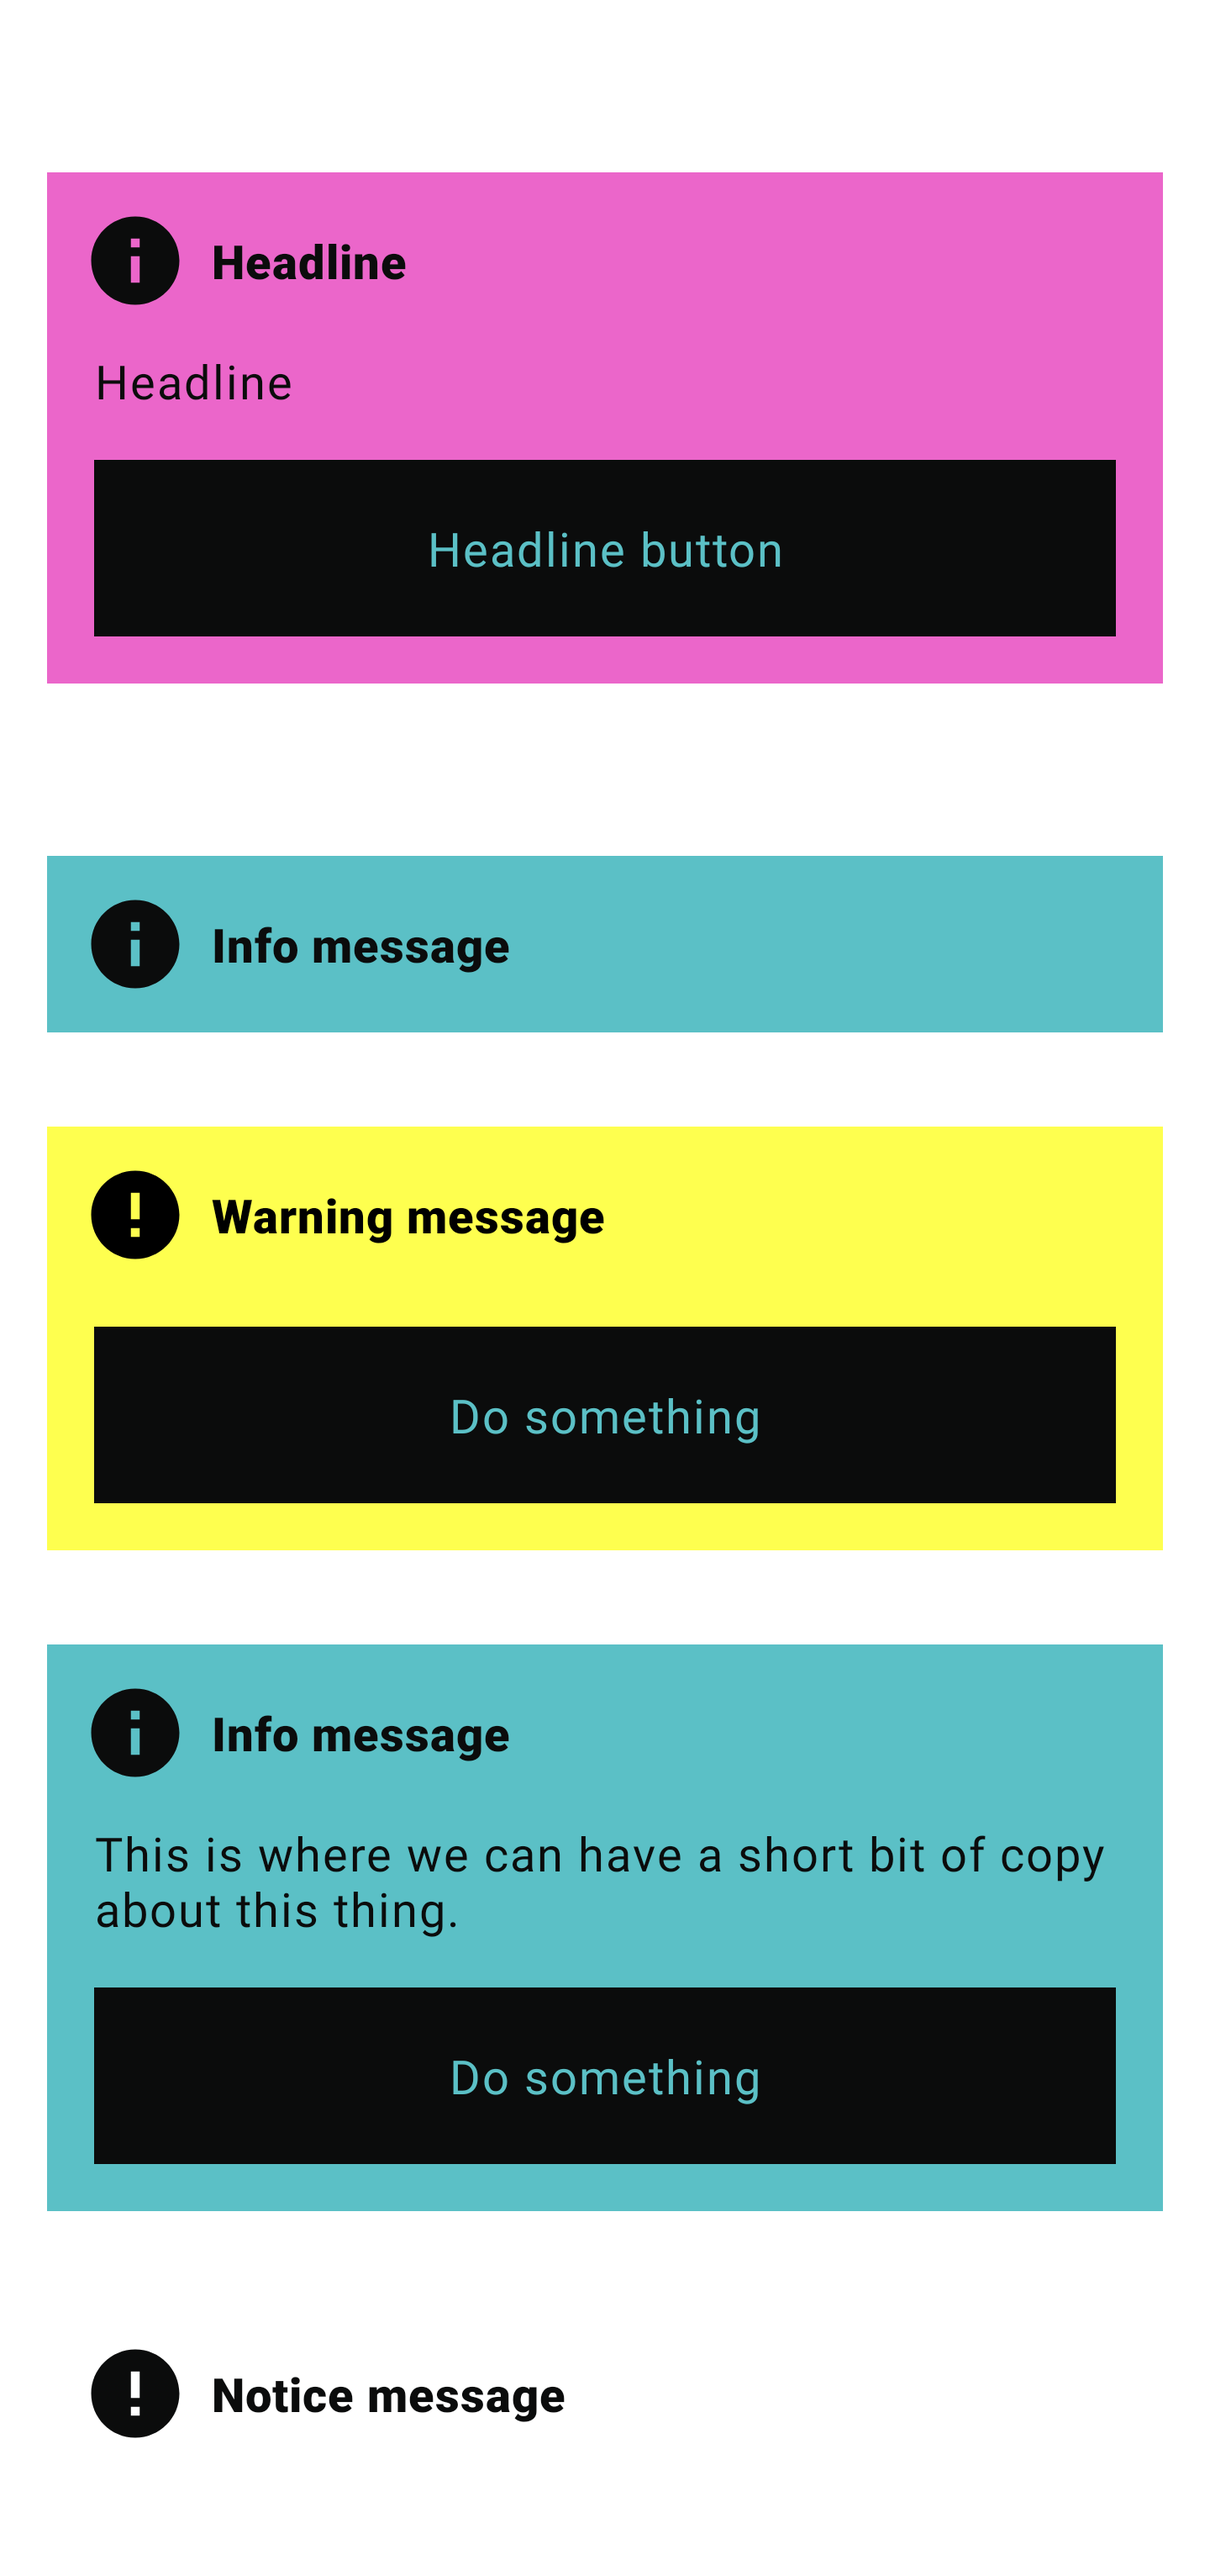
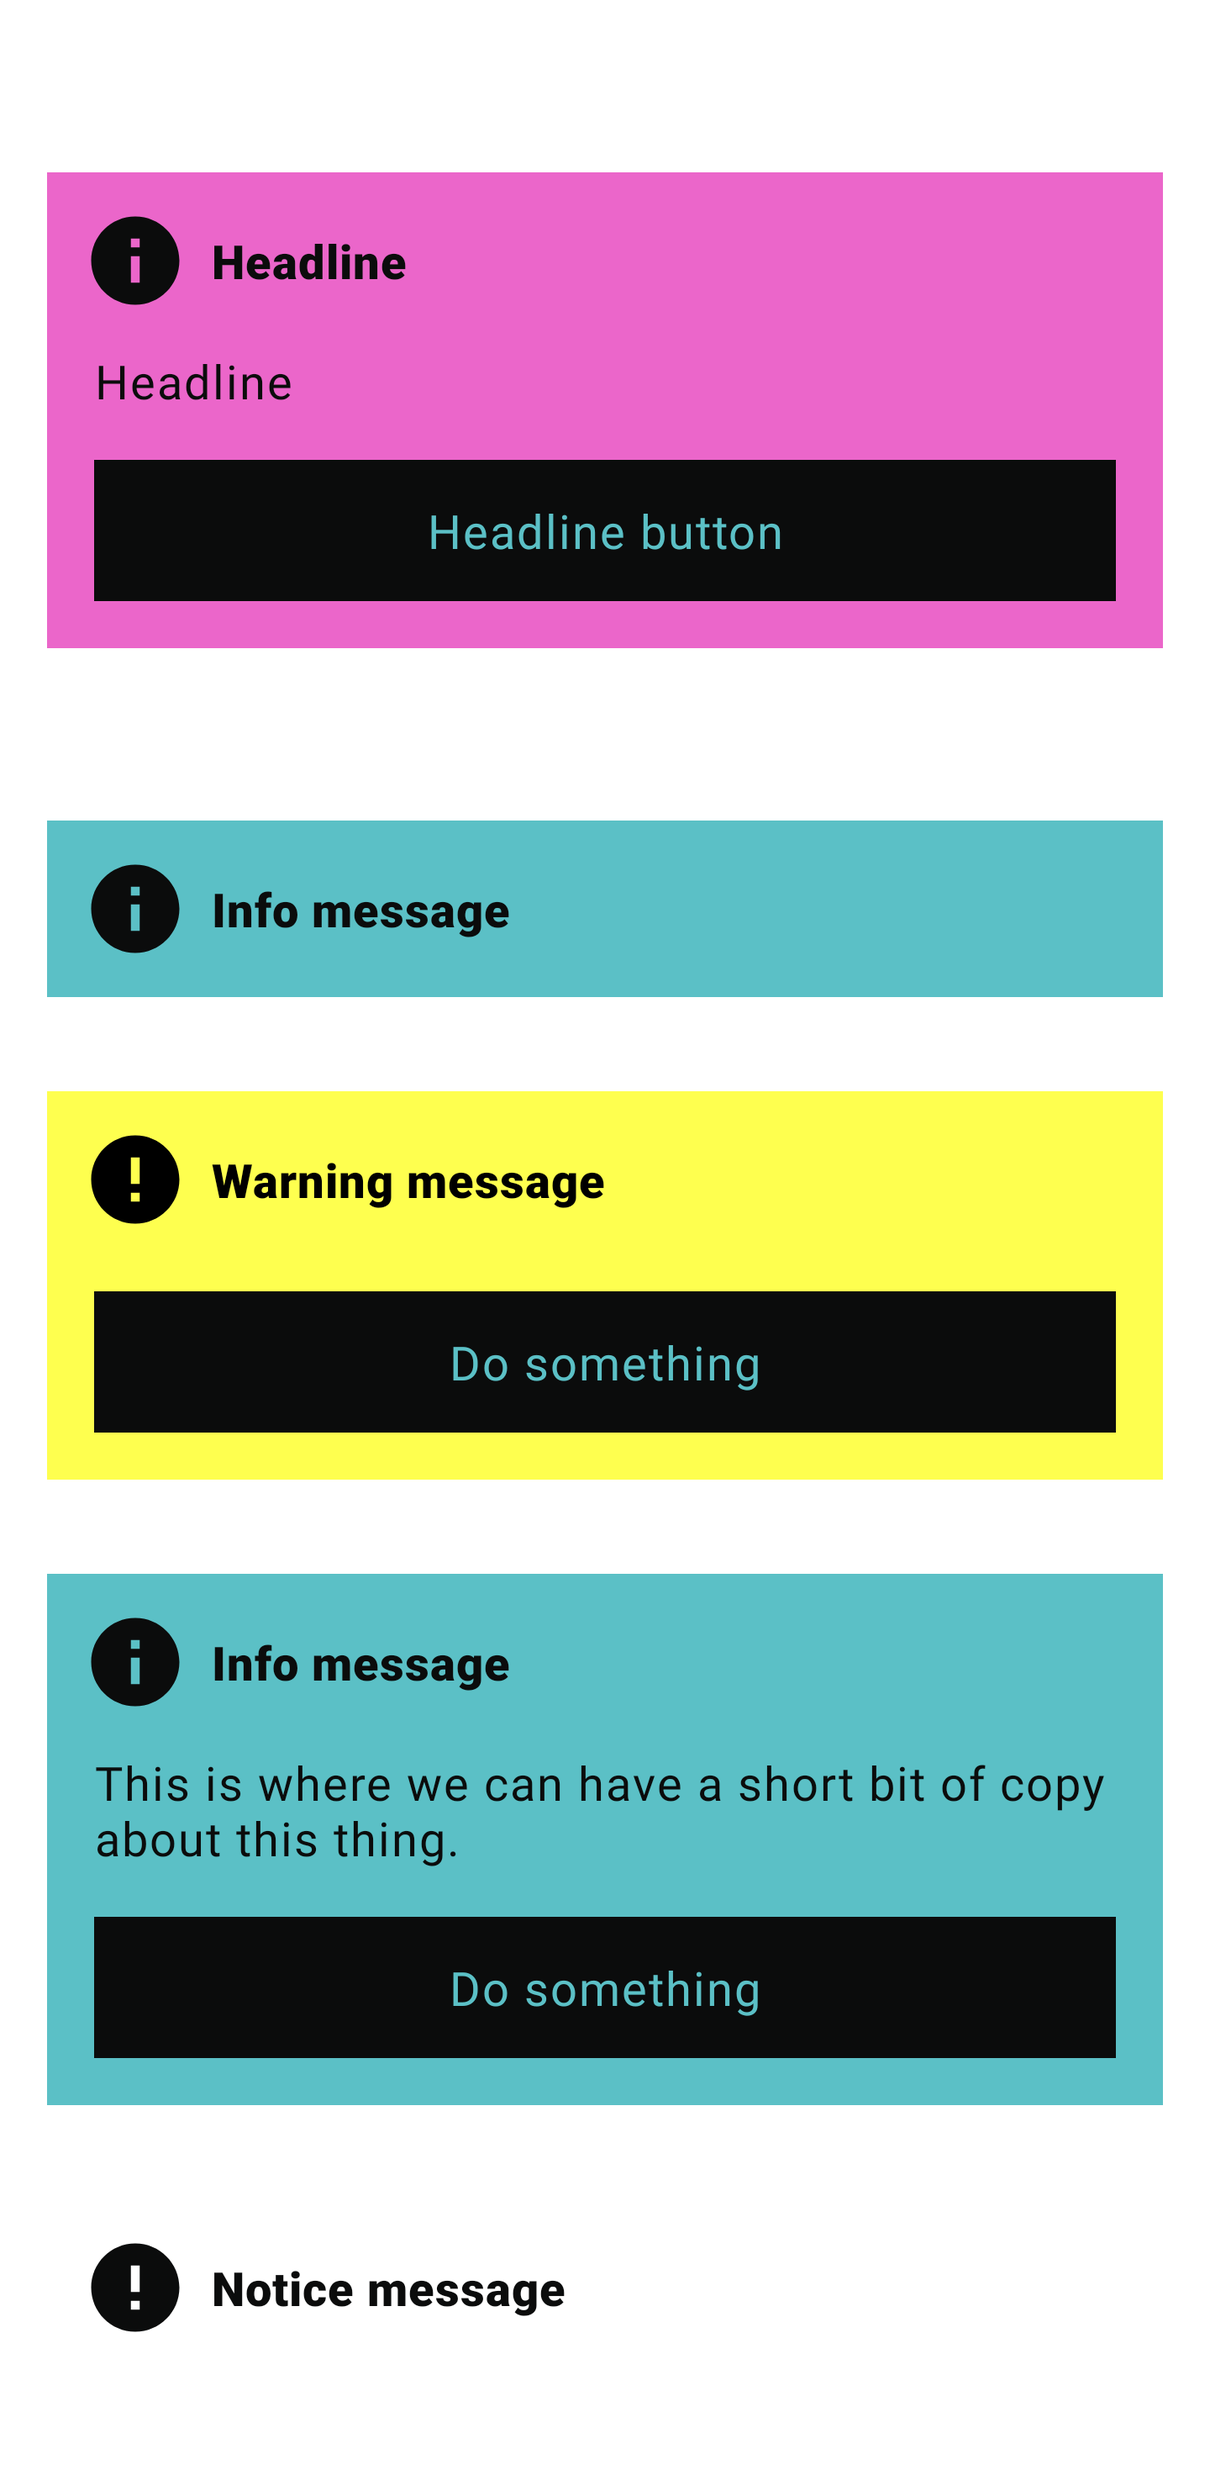
HMA-5257 Reduced minHeight for InformationMessageCardView buttons from 60dp to 0dp so they do not look so big in the context of the InformationMessageCardView.

diff --git a/components/src/main/java/uk/gov/hmrc/components/organism/information/InformationMessageCardView.kt b/components/src/main/java/uk/gov/hmrc/components/organism/information/InformationMessageCardView.kt
@@ -100,6 +100,7 @@ class InformationMessageCardView @JvmOverloads constructor(
 
         binding.headlineButtonsContainer.visibility = if (buttons.isNotEmpty()) View.VISIBLE else View.GONE
         buttons.forEach {
+            it.minHeight = 0
             it.setMargins(spacing16, spacing8, spacing16, 0)
             it.backgroundTintList = ContextCompat.getColorStateList(context, R.color.hmrc_white)
             it.gravity = Gravity.CENTER

diff --git a/CHANGELOG.md b/CHANGELOG.md
@@ -16,6 +16,10 @@ Allowed headings:
 
 ## [Unreleased]
 
+### Changed
+
+* Updated `InformationMessageCardView` buttons so that the button `minHeight` is reset from the default 60dp to 0dp. This means that buttons now only occupy the vertical space that they need and no more.
+
 ## [3.21.0] - 2022-01-25
 
 ### Added
